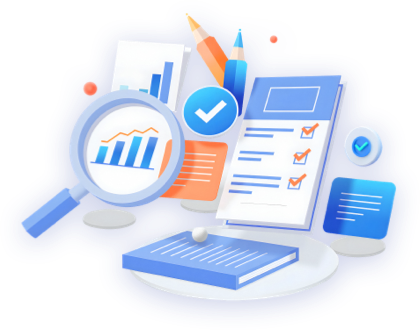
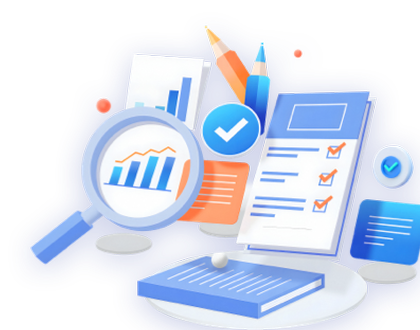
style(home): 调整首页插画位置
1. 基于上一版首页插画重新调整画面重心，让插画沿标题和按钮区的视觉基准线摆放
2. 收紧首页功能卡片区和页面底部的默认留白，减少首页空白感
3. 已通过 npm run docs:build 和本地预览截图验证首页渲染效果

diff --git a/docs/.vitepress/theme/style.css b/docs/.vitepress/theme/style.css
@@ -48,16 +48,31 @@
   border-radius: 8px;
 }
 
+.VPContent.is-home .VPHome {
+  margin-bottom: 0 !important;
+}
+
 .VPHome .VPFeatures {
   padding-top: clamp(40px, 5vw, 64px);
-  padding-bottom: clamp(72px, 8vw, 112px);
+  padding-bottom: clamp(40px, 5vw, 64px);
   background: var(--vp-c-bg);
+}
+
+.VPHome .vp-doc.container {
+  display: none;
 }
 
 .VPHome .VPHero {
   background:
     radial-gradient(circle at 82% 12%, rgba(229, 94, 239, 0.12), transparent 30%),
     linear-gradient(135deg, #eef4ff 0%, #f2edff 46%, #fff3fb 100%);
+}
+
+@media (min-width: 768px) {
+  .VPHome .VPHero .image-container {
+    transform: translate(18px, 3px) scale(1.04);
+    transform-origin: center;
+  }
 }
 
 .dark .VPHome .VPHero {